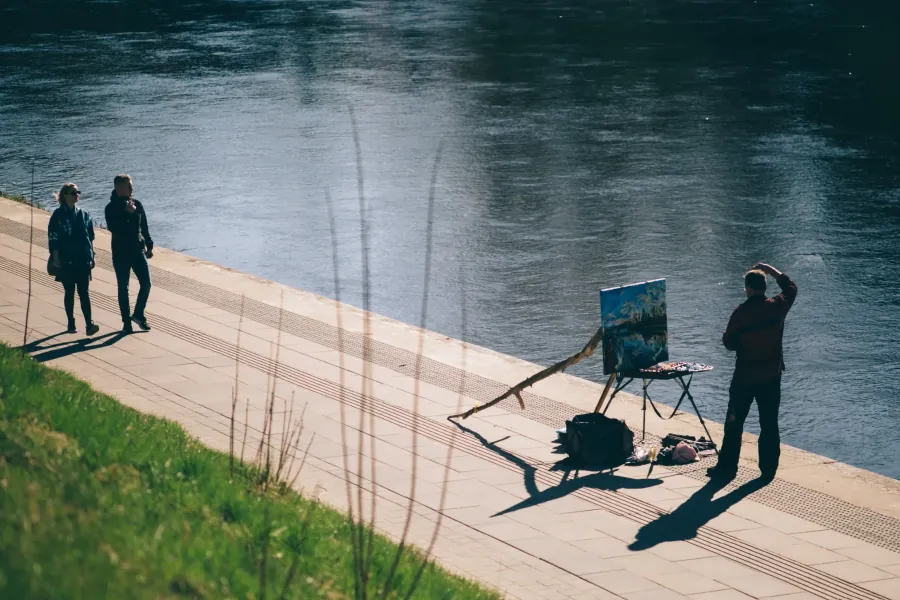
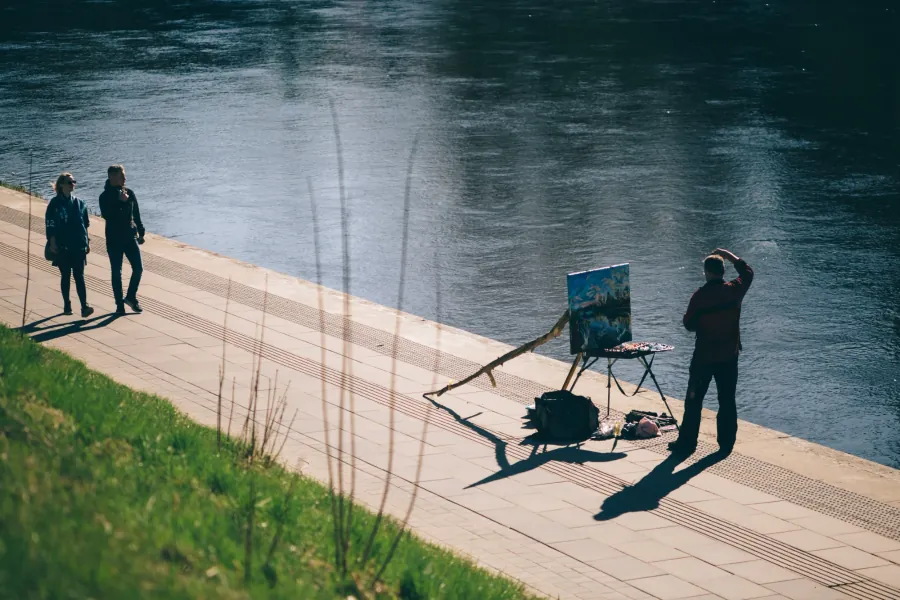
Enhance ImageGallery component with dynamic layout and aspect ratio handling for images

diff --git a/src/components/ImageGallery.tsx b/src/components/ImageGallery.tsx
@@ -1,4 +1,4 @@
-import { useState, useRef, useEffect, type TouchEvent, type CSSProperties } from 'react'
+import { useState, useRef, useEffect, type TouchEvent, type SyntheticEvent, type CSSProperties } from 'react'
 import { motion, type Variants } from 'framer-motion'
 import { ImageLightbox } from './ImageLightbox'
 import { TypewriterText } from './TypewriterText'
@@ -70,6 +70,26 @@ export function ImageGallery({ images, fadeInUp, staggerContainer, reduceMotion,
   }
 
   const [shuffledImages] = useState(() => shuffleArray(images))
+  const [layoutClassMap, setLayoutClassMap] = useState<Record<number, string>>(() =>
+    images.reduce((acc, _item, index) => {
+      const itemLayouts = [
+        'aspect-[4/5]',
+        'aspect-square',
+        'aspect-[5/4]',
+        'aspect-[5/3]',
+        'aspect-[3/4]',
+        'aspect-[4/3]'
+      ]
+      acc[_item.id] = itemLayouts[index % itemLayouts.length]
+      return acc
+    }, {} as Record<number, string>)
+  )
+  const [wideImageMap, setWideImageMap] = useState<Record<number, boolean>>(() =>
+    images.reduce((acc, item) => {
+      acc[item.id] = false
+      return acc
+    }, {} as Record<number, boolean>)
+  )
   const [imageAnimationStyles] = useState<Record<number, CSSProperties>>(() =>
     images.reduce((acc, item, index) => {
       acc[item.id] = {
@@ -97,21 +117,40 @@ export function ImageGallery({ images, fadeInUp, staggerContainer, reduceMotion,
     }
   }
 
-  const itemLayouts = [
-    'aspect-[4/5]',
-    'aspect-square',
-    'aspect-[5/4]',
-    'aspect-[5/3]',
-    'aspect-[3/4]',
-    'aspect-[4/3]'
-  ]
+  const handleImageLoad = (event: SyntheticEvent<HTMLImageElement>, item: ImageItem) => {
+    const target = event.currentTarget
+    const ratio = target.naturalWidth / target.naturalHeight
 
-  const handleImageLoad = () => {
-    // Preserve the initially assigned aspect ratio to avoid layout shifts when images load.
-  }
+    let nextLayoutClass = layoutClassMap[item.id]
+    let nextIsWide = wideImageMap[item.id]
 
-  const getLayoutClass = (_item: ImageItem, index: number) => {
-    return itemLayouts[index % itemLayouts.length]
+    if (ratio >= 2.0) {
+      nextLayoutClass = 'aspect-[21/9] col-span-2 md:col-span-2 lg:col-span-2'
+      nextIsWide = true
+    } else if (ratio >= 1.5) {
+      nextLayoutClass = 'aspect-[5/3]'
+      nextIsWide = false
+    } else if (ratio <= 0.65) {
+      nextLayoutClass = 'aspect-[3/4]'
+      nextIsWide = false
+    } else {
+      nextLayoutClass = 'aspect-[4/3]'
+      nextIsWide = false
+    }
+
+    if (nextLayoutClass !== layoutClassMap[item.id]) {
+      setLayoutClassMap((prev) => ({
+        ...prev,
+        [item.id]: nextLayoutClass
+      }))
+    }
+
+    if (nextIsWide !== wideImageMap[item.id]) {
+      setWideImageMap((prev) => ({
+        ...prev,
+        [item.id]: nextIsWide
+      }))
+    }
   }
 
   useEffect(() => {
@@ -200,7 +239,7 @@ export function ImageGallery({ images, fadeInUp, staggerContainer, reduceMotion,
           transition={{ duration: isReducedMotion ? 0.6 : 0.8, delay: descriptionComplete ? 0.1 : 0 }}
           className="grid gap-4 auto-rows-min"
         >
-          <div className="columns-2 md:columns-3 lg:columns-4 space-y-1" style={{ columnGap: '0.6rem' }}>
+          <div className="grid grid-cols-2 gap-4 grid-flow-row-dense">
             {shuffledImages.map((item, i) => (
               <motion.button
                 type="button"
@@ -210,7 +249,7 @@ export function ImageGallery({ images, fadeInUp, staggerContainer, reduceMotion,
                 initial={isReducedMotion ? { opacity: 0 } : { opacity: 0, y: 20 }}
                 animate={{ opacity: 1, y: 0 }}
                 transition={{ delay: i * 0.05, duration: isReducedMotion ? 0.25 : 0.35 }}
-                className={`group relative inline-block w-full overflow-hidden rounded-3xl bg-stone-200 ${getLayoutClass(item, i)} cursor-pointer focus:outline-none focus:ring-2 focus:ring-amber-400 break-inside-avoid`}
+                className={`group relative w-full overflow-hidden rounded-3xl bg-stone-200 ${layoutClassMap[item.id]} cursor-pointer focus:outline-none focus:ring-2 focus:ring-amber-400`}
               >
                 <img
                   src={item.thumbnail ?? item.image}
@@ -218,7 +257,7 @@ export function ImageGallery({ images, fadeInUp, staggerContainer, reduceMotion,
                   loading="lazy"
                   decoding="async"
                   onLoad={(event) => handleImageLoad(event, item)}
-                  className="ken-burns absolute inset-0 w-full h-full object-cover transition-transform duration-700 ease-out group-hover:scale-105 group-hover:-translate-y-1 group-hover:translate-x-1"
+                  className={`ken-burns absolute inset-0 w-full h-full transition-transform duration-700 ease-out group-hover:scale-105 group-hover:-translate-y-1 group-hover:translate-x-1 ${wideImageMap[item.id] ? 'object-contain bg-stone-950/5' : 'object-cover'}`}
                   style={imageAnimationStyles[item.id]}
                 />
               </motion.button>